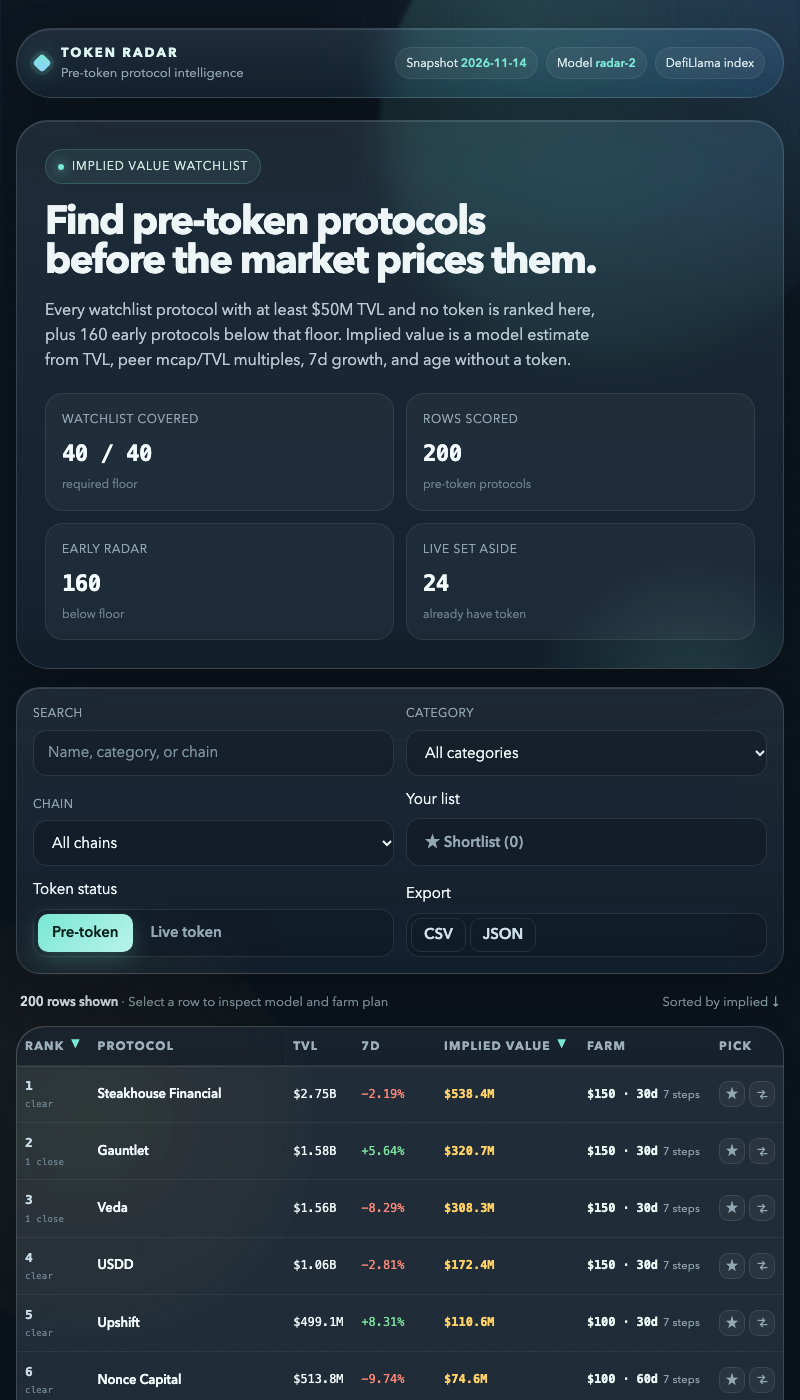
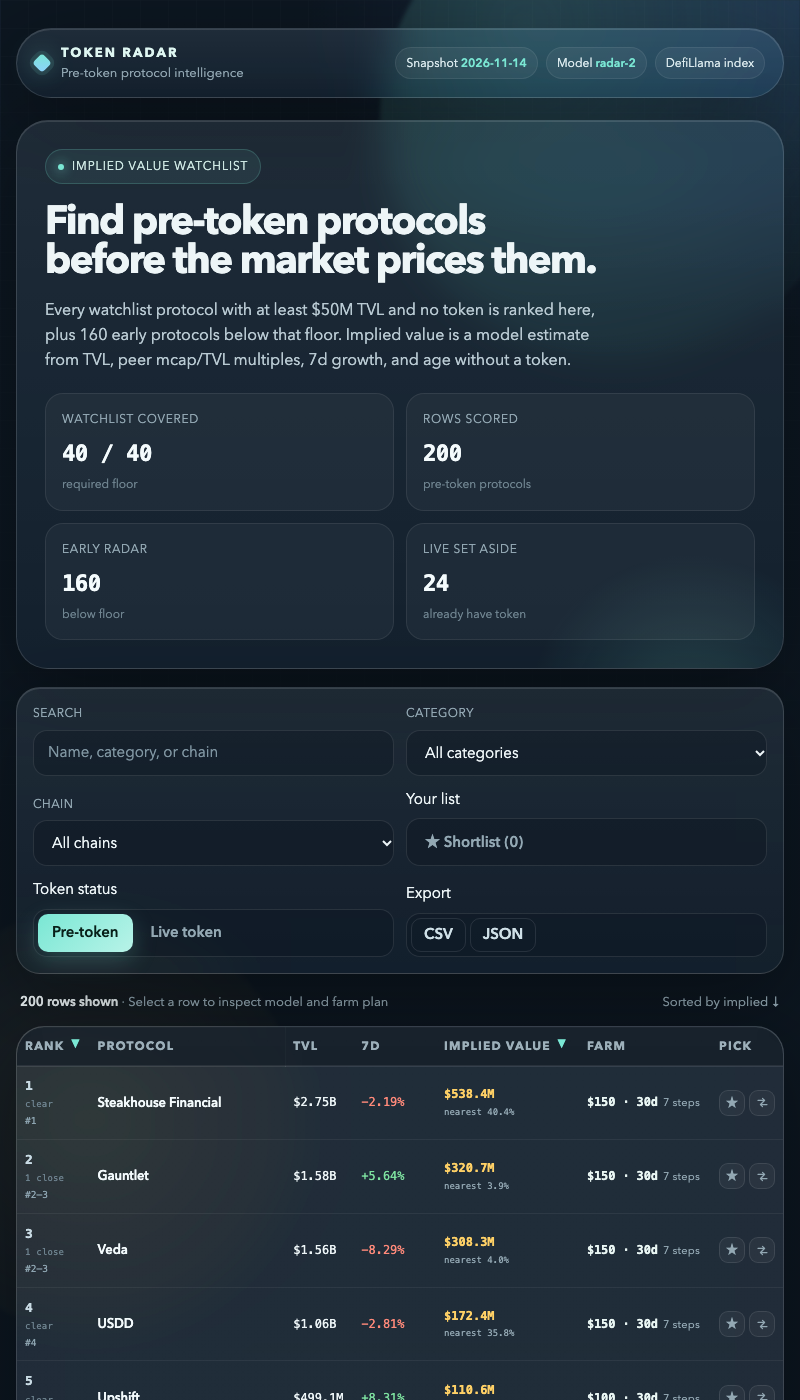
Show rank range and nearest gap beside the tie count
"5 close" could not tell a tight cluster from a wide band. Rows now
carry the rank range the +/-5% band implies under the rank itself, and
the implied cell names the distance to the nearest other row; the modal
copy names that neighbour. board.json is unchanged.

diff --git a/dashboard/app.js b/dashboard/app.js
@@ -148,6 +148,15 @@
       worst: rankAmong(row.implied_value_usd * (1 - share), row.slug)
     };
   }
+  function nearestNeighbor(row) {
+    var best = null;
+    DATA.rows.forEach(function (r) {
+      if (r.slug === row.slug) return;
+      var delta = (r.implied_value_usd - row.implied_value_usd) / row.implied_value_usd;
+      if (best === null || Math.abs(delta) < Math.abs(best.delta)) best = { row: r, delta: delta };
+    });
+    return best;
+  }
   // How much evidence stands behind a category's peer number: below six live comparables the
   // median is a handful of prices, so the label says so next to the count.
   function evidenceLabel(samples) {
@@ -539,6 +548,8 @@
       implied_value_usd: r.implied_value_usd,
       farm_capital_usd: capitalFor(r), farm_hold_days: holdDaysFor(r.age_days),
       farm_steps: (r.farm_steps || []).length, close_within_5pct: impliedBand(r).length,
+      nearest_gap_pct: round4(nearestNeighbor(r).delta * 100),
+      rank_band: '#' + bandRanks(r).best + '-' + bandRanks(r).worst,
       shortlisted: isShortlisted(r.slug), in_compare: isCompared(r.slug)
     };
   }
@@ -616,6 +627,8 @@
       var growth = r.change_7d === null ? 'n/a' : fmtPct(r.change_7d);
       var growthClass = r.change_7d === null ? '' : r.change_7d >= 0 ? 'pos' : 'neg';
       var near = impliedBand(r).length;
+      var ranks = bandRanks(r);
+      var closest = nearestNeighbor(r);
       var tr = el('tr', {
         'data-selected': state.selected === r.slug ? 'true' : 'false',
         tabindex: '0',
@@ -629,6 +642,11 @@
               class: 'rank-near',
               title: near + ' other rows sit within \u00b15% of this implied value',
               text: near === 0 ? 'clear' : near + ' close'
+            }),
+            el('span', {
+              class: 'rank-band',
+              title: 'Rank range if this implied value moved \u00b15%',
+              text: ranks.best === ranks.worst ? '#' + ranks.best : '#' + ranks.best + '\u2013' + ranks.worst
             })
           )
         ),
@@ -641,8 +659,15 @@
         el('td', { class: 'num age-col', text: fmtAge(r.age_days) }),
         el('td', { class: 'num peer peer-col', title: 'Market mcap per $1 TVL for comparable live tokens', text: r.peer_multiple.toFixed(2) + 'x' }),
         el('td', null, el('div', { class: 'implied-cell' },
-          el('div', { class: 'bar', 'aria-hidden': 'true' }, el('i', { style: 'width:' + Math.max(3, Math.round((r.implied_value_usd / max) * 100)) + '%' })),
-          el('span', { class: 'num', text: fmtUsd(r.implied_value_usd) })
+          el('div', { class: 'implied-main' },
+            el('div', { class: 'bar', 'aria-hidden': 'true' }, el('i', { style: 'width:' + Math.max(3, Math.round((r.implied_value_usd / max) * 100)) + '%' })),
+            el('span', { class: 'num', text: fmtUsd(r.implied_value_usd) })
+          ),
+          el('span', {
+            class: 'implied-near',
+            title: 'Nearest other row: ' + closest.row.name + ' at ' + signedPct(closest.delta) + ', ' + fmtUsd(closest.row.implied_value_usd),
+            text: 'nearest ' + (Math.abs(closest.delta) * 100).toFixed(1) + '%'
+          })
         )),
         el('td', { class: 'farm-col' }, el('div', { class: 'farm-cell', title: 'Capital to qualify, days to hold, and steps from this row\u2019s farm plan' },
           el('b', { text: fmtUsd(capitalFor(r)) + ' \u00b7 ' + holdDaysFor(r.age_days) + 'd' }),
@@ -808,9 +833,13 @@
     var nearest = band.slice().sort(function (a, b) {
       return Math.abs(a.implied_value_usd - row.implied_value_usd) - Math.abs(b.implied_value_usd - row.implied_value_usd);
     }).slice(0, 5);
-    var copy = band.length === 0
+    var closest = nearestNeighbor(row);
+    var nearestLine = closest
+      ? ' Nearest is ' + closest.row.name + ' at ' + signedPct(closest.delta) + ' (' + fmtUsd(closest.row.implied_value_usd) + ').'
+      : '';
+    var copy = (band.length === 0
       ? 'No other row scores within 5% of this implied value, so its position does not rest on rounding.'
-      : band.length + ' of the other ' + (DATA.board_size - 1) + ' rows score within 5% of this implied value, so the order between them is not firm. Moved \u00b15%, this row would rank between #' + ranks.best + ' and #' + ranks.worst + '.';
+      : band.length + ' of the other ' + (DATA.board_size - 1) + ' rows score within 5% of this implied value, so the order between them is not firm. Moved \u00b15%, this row would rank between #' + ranks.best + ' and #' + ranks.worst + '.') + nearestLine;
     var list = el('div', { class: 'trust-list' }, nearest.map(function (n) {
       var delta = (n.implied_value_usd - row.implied_value_usd) / row.implied_value_usd;
       return el('div', { class: 'trust-row' },

diff --git a/dashboard/app.css b/dashboard/app.css
@@ -211,6 +211,7 @@ tbody tr:last-child td { border-bottom: 0; }
 .rank-wrap { display: grid; gap: 2px; }
 .rank-wrap b { font-weight: 550; }
 .rank-near { font-size: 10px; letter-spacing: 0.02em; color: var(--dim); white-space: nowrap; }
+.rank-band { font-family: var(--font-num); font-size: 9.5px; color: #8fa6b2; white-space: nowrap; }
 .name-cell { display: grid; gap: 4px; min-width: 180px; }
 .name-cell b { font-size: 15px; font-weight: 600; letter-spacing: -0.01em; color: #f3fafc; }
 .name-cell span { font-size: 12px; color: var(--muted); line-height: 1.4; }
@@ -221,7 +222,9 @@ tbody tr:last-child td { border-bottom: 0; }
 .farm-cell { display: grid; gap: 3px; }
 .farm-cell b { font-family: var(--font-num); font-size: 13px; font-weight: 600; color: #eaf7f4; letter-spacing: -0.01em; }
 .farm-cell span { font-size: 11px; color: var(--muted); letter-spacing: 0.02em; }
-.implied-cell { display: flex; align-items: center; gap: 12px; min-width: 160px; }
+.implied-cell { display: grid; gap: 2px; min-width: 160px; }
+.implied-main { display: flex; align-items: center; gap: 12px; }
+.implied-near { font-family: var(--font-num); font-size: 10px; color: var(--muted); white-space: nowrap; }
 .implied-cell .num { min-width: 88px; color: var(--value); font-weight: 550; }
 .bar {
   flex: 1; height: 8px; border-radius: 999px; overflow: hidden;
@@ -456,9 +459,11 @@ tbody tr.row-in { animation: rowIn 340ms cubic-bezier(0.2, 0.7, 0.3, 1) both; }
   .name-cell { min-width: 0; }
   .name-cell span { display: none; }
   .name-cell b { font-size: 13px; }
-  .implied-cell { min-width: 0; gap: 6px; }
-  .implied-cell .bar { display: none; }
+  .implied-cell { min-width: 0; }
+  .implied-main { gap: 6px; }
+  .implied-main .bar { display: none; }
   .peer-col, .status-col, .age-col { display: none; }
+  .implied-near { font-size: 9px; }
   .pick-col { width: 72px; }
   .pick-cell { gap: 4px; }
   .pick-btn { width: 26px; height: 26px; font-size: 12px; }

diff --git a/dashboard/index.html b/dashboard/index.html
@@ -5,7 +5,7 @@
 <meta name="viewport" content="width=device-width, initial-scale=1">
 <meta name="color-scheme" content="dark">
 <title>Token Radar: pre-token protocols ranked by implied value</title>
-<link rel="stylesheet" href="app.css?v=9">
+<link rel="stylesheet" href="app.css?v=10">
 </head>
 <body>
 <a class="skip" href="#board">Skip to the board</a>
@@ -16,6 +16,6 @@
 </div>
 <main id="board" tabindex="-1" aria-busy="true"></main>
 <script src="../data.js?v=4"></script>
-<script src="app.js?v=11"></script>
+<script src="app.js?v=13"></script>
 </body>
 </html>
